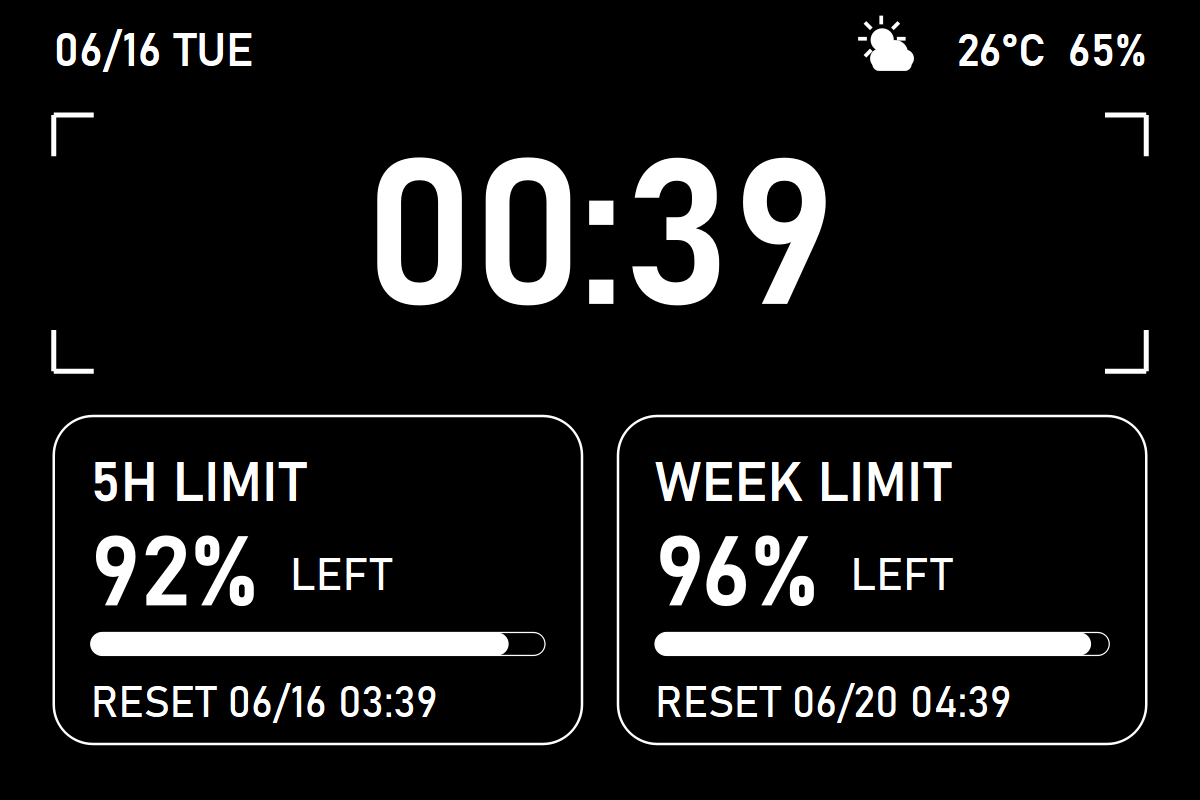
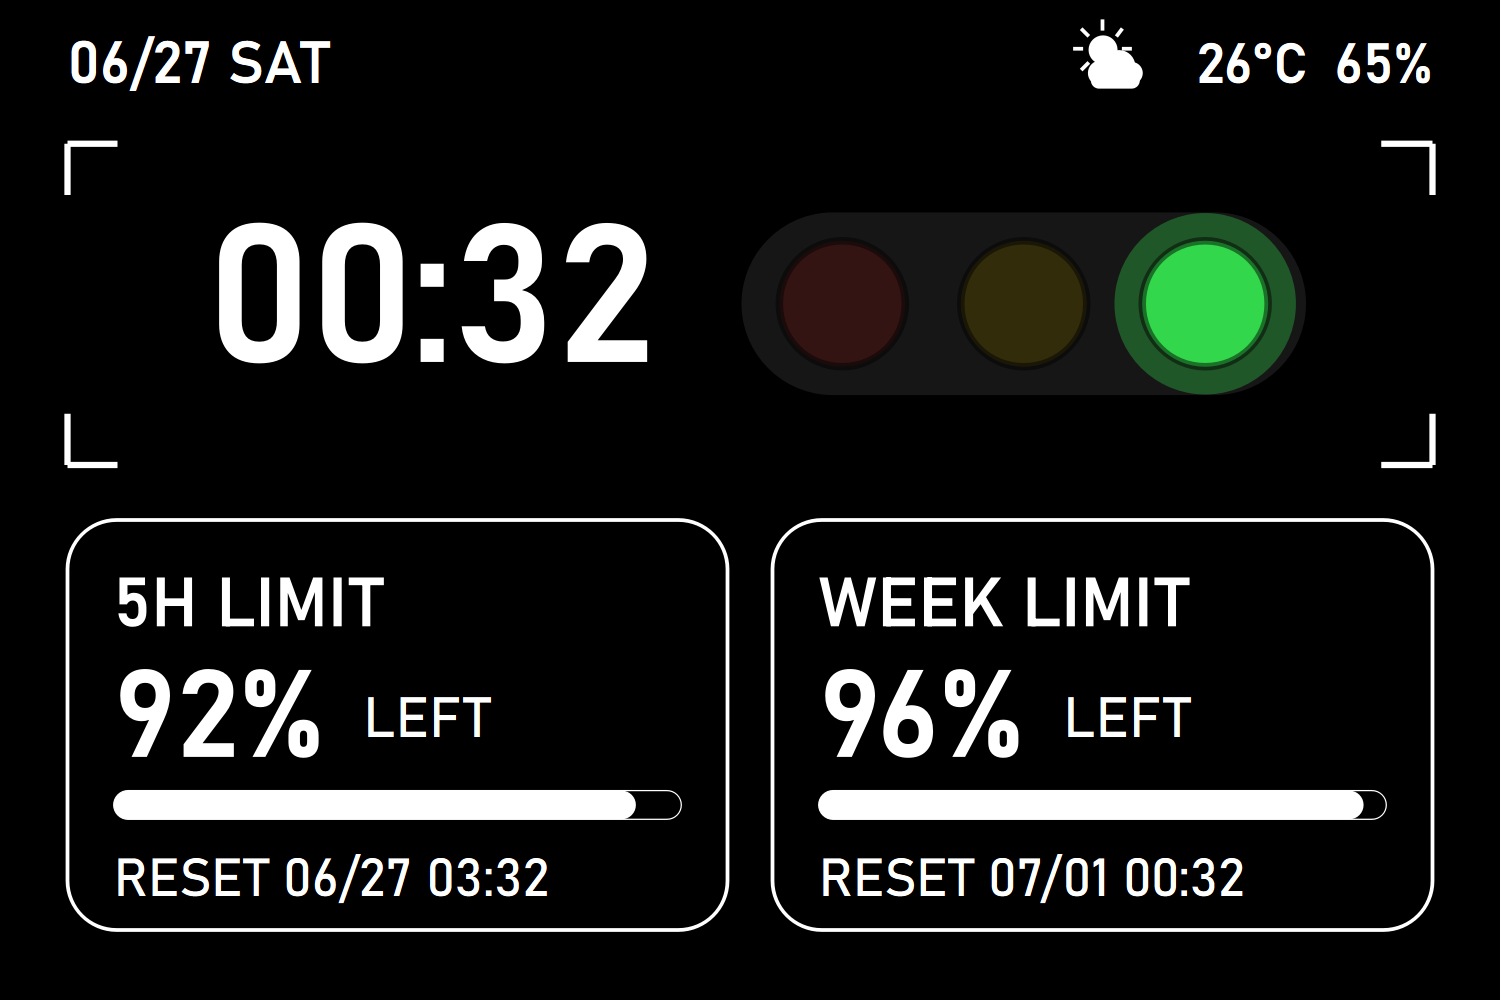
docs: v2 screenshot + v1/v2 version switcher
Replace the README screenshot with the v2 layout (clock on the left, the new
Claude traffic light on the right). Add a v1/v2 switcher row at the top of both
READMEs, mirroring the zh/en switcher.

diff --git a/README.en.md b/README.en.md
@@ -1,6 +1,7 @@
 # Claude Usage Screen
 
 [中文](README.md) · **English**
+**v2** (current) · [v1](https://github.com/AHMUJia/claude-usage/blob/v1/README.en.md)
 
 [![License: MIT](https://img.shields.io/badge/License-MIT-green.svg)](LICENSE)
 ![Python](https://img.shields.io/badge/Python-3.8%2B-blue.svg)

diff --git a/README.md b/README.md
@@ -1,6 +1,7 @@
 # Claude Usage Screen
 
 **中文** · [English](README.en.md)
+**v2**（当前） · [v1](https://github.com/AHMUJia/claude-usage/blob/v1/README.md)
 
 [![License: MIT](https://img.shields.io/badge/License-MIT-green.svg)](LICENSE)
 ![Python](https://img.shields.io/badge/Python-3.8%2B-blue.svg)